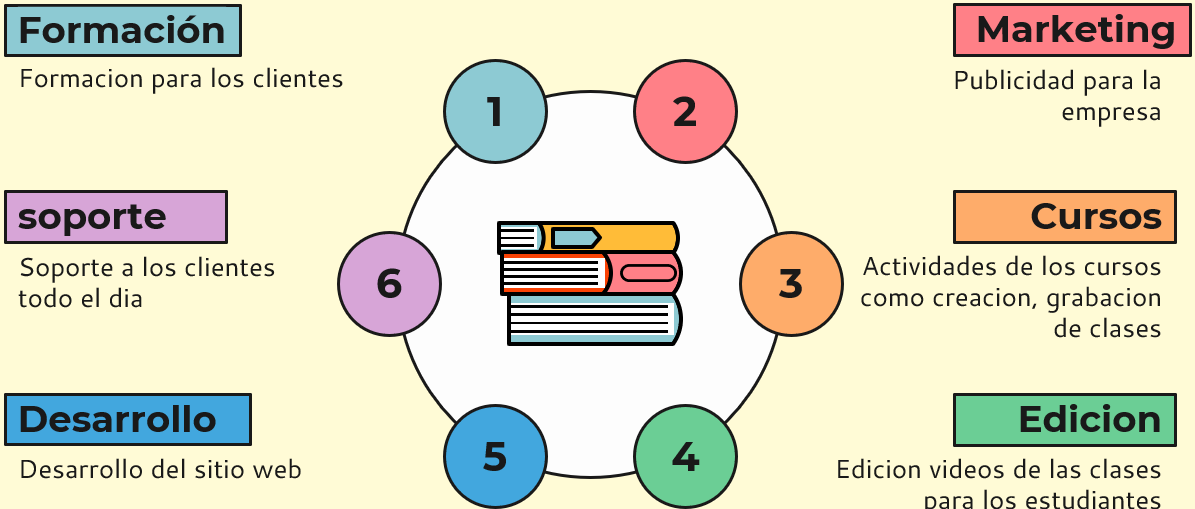
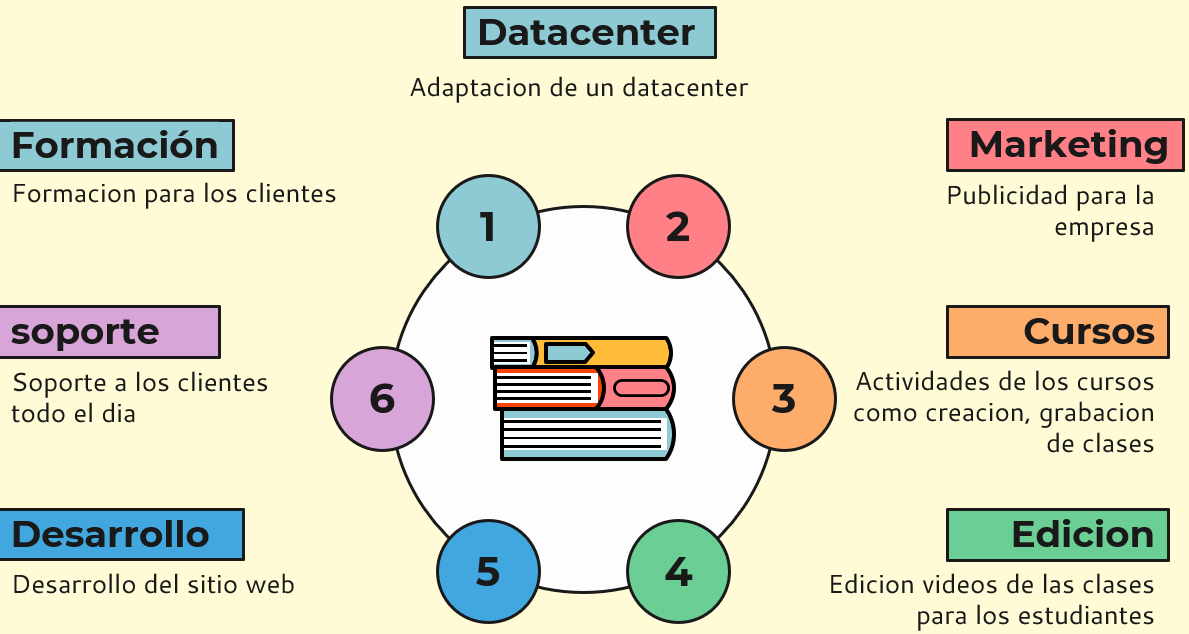
cambios pg

diff --git a/ModeloCanvas.html b/ModeloCanvas.html
@@ -108,7 +108,7 @@
     </div>
     <div class="text1" >
     <h2>Estructura de costos:</h2>
-        <p align="justify"> tendremos varios costos en la organizacion los cuales seran los profesor que daran los cursos, los desarrolladores que crearan y gestionaran la pagina, los trabajadores de soporte al usuario, los que ayudaran a la publicidad y sus costos relacionados, todos los elementos fisico tecnologicos, las oficinas que se usaran y un centro de procesamiento de datos en donde se almacenaran los datos</p>
+        <p align="justify"> En nuestra estructura de costo necesitamos 3 aspectos importantes los cuales son el Talento humano que constara de todos los empleados que necesitemos, marketing para darle publicidad a la empresa y tecnologia e infraestructura la cual cuenta con elementos clave para nuestra empresa</p>
     </div>
     <div class="text1" >
     <h2>Fuente de ingresos:</h2>

diff --git a/AboutUs.html b/AboutUs.html
@@ -66,7 +66,7 @@ body{
 
 <div>
 <h3>Modelo Canvas: </h3>
-<div align="center"> <img class="Modelocanvas" src="img/modelocanvas.jpg" alt="Modelo Canvas" title="Modelo canvas"> </div>
+<div align="center"> <img class="Modelocanvas" src="img/ModelCanvas.jpg" alt="Modelo Canvas" title="Modelo canvas"> </div>
 </div>
 
 
